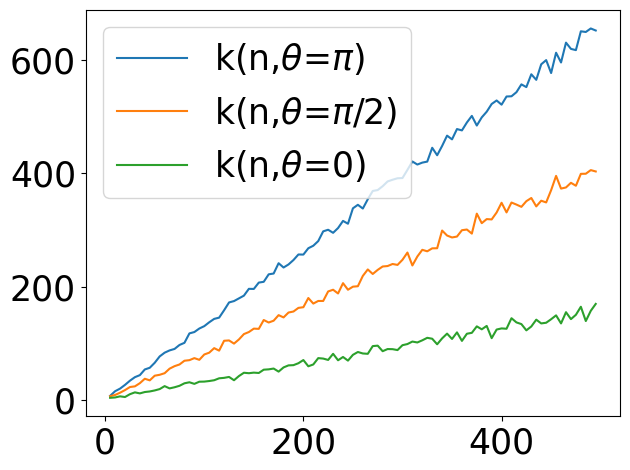
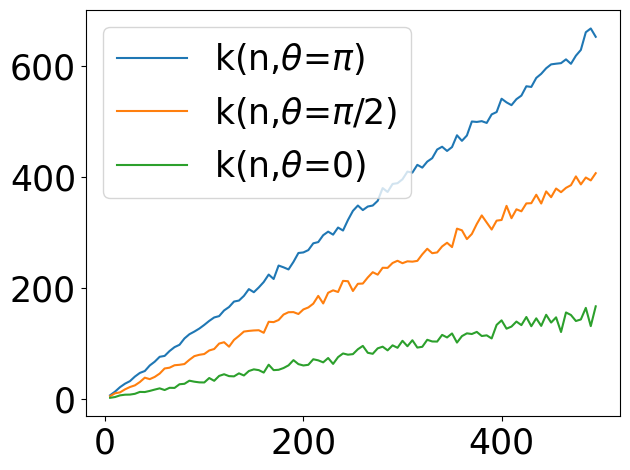
set seed for reproducibility

diff --git a/src/main.py b/src/main.py
@@ -7,7 +7,7 @@ from test import distance_t_k
 
 def main():
     # For reproducibility
-    seed(0)
+    seed(1)
 
     img_path = '../img/'
     distance_k_n.run(save_path=img_path, show_plot=False) # Takes about 80 seconds
